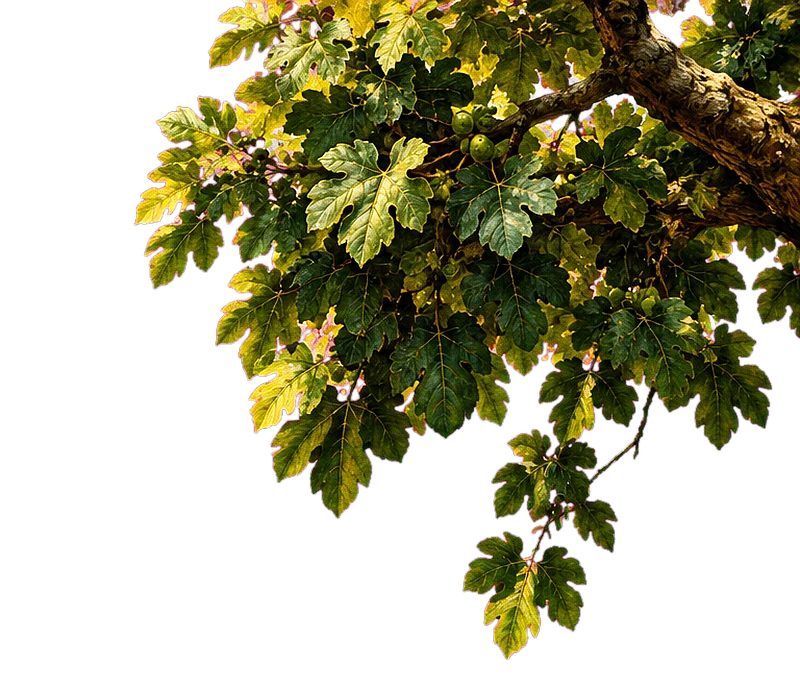
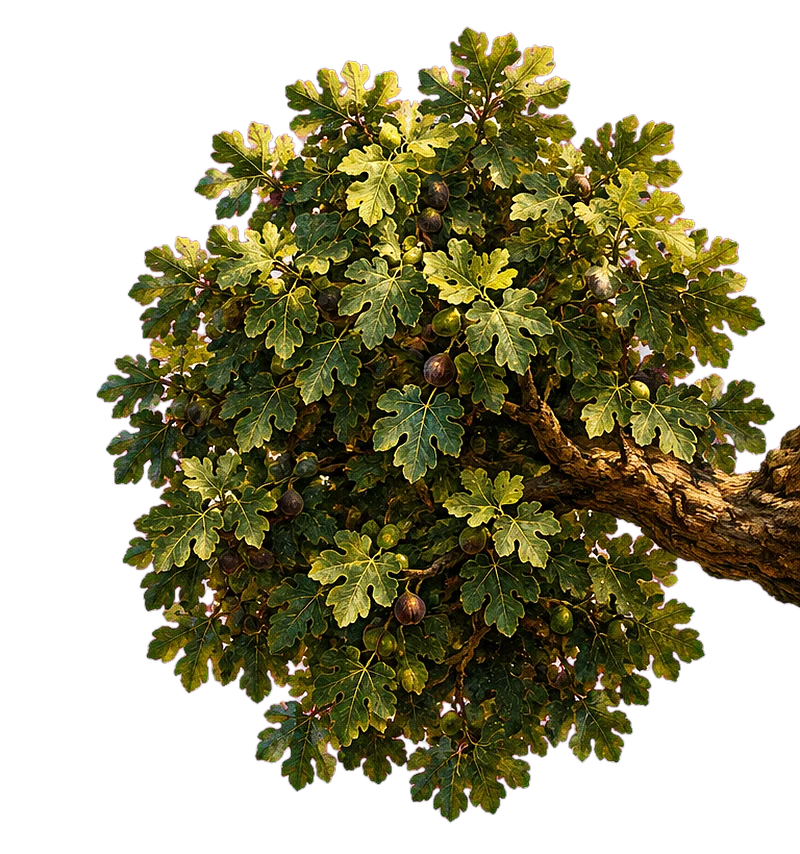
Stories: full uncut tree crowns entering from screen edges
Claude-Session: https://claude.ai/code/session_015Py254KMr5kCvAhqEtRz8k

diff --git a/src/styles/stories-structured.css b/src/styles/stories-structured.css
@@ -142,7 +142,7 @@
 
 /* ══ ٢. رحلة اللوحة ═══════════════════════════════════════════════════ */
 .qz-sx-journey {
-  --tw: 50vw;
+  --tw: 42vw;
   position: relative;
   z-index: 2;
   background: #9fb8b4;
@@ -150,8 +150,8 @@
 .qz-sx-trees {
   position: absolute;
   z-index: 4;
-  inset: calc(-34svh) 0 auto 0;
-  height: calc(var(--tw) * 2);
+  inset: calc(-30svh) 0 auto 0;
+  height: calc(var(--tw) * 2.4);
   overflow: visible;
   overflow-x: clip;
   pointer-events: none;
@@ -165,11 +165,11 @@
 }
 .qz-sx-tree.is-l {
   left: 0;
-  transform-origin: 0% 0%;
+  transform-origin: 0% 40%;
 }
 .qz-sx-tree.is-r {
   right: 0;
-  transform-origin: 100% 0%;
+  transform-origin: 100% 40%;
 }
 .qz-sx-frame {
   position: relative;
@@ -805,7 +805,7 @@
     min-height: 520px;
   }
   .qz-sx-journey {
-    --tw: 60vw;
+    --tw: 56vw;
   }
   .qz-sx-ibis {
     width: 9%;

diff --git a/src/pages/Stories.jsx b/src/pages/Stories.jsx
@@ -117,7 +117,7 @@ function HeroAndJourney() {
   // الشجر طبقة أمامية: طالع من تحت قدّام الكلمة، وبيطلع أسرع من اللوحة ويكبر
   const { scrollYProgress: treeP } = useScroll({ target: journeyRef, offset: ['start end', 'start start'] })
   const treeY = useTransform(treeP, [0, 1], reduce ? ['0vh', '0vh'] : ['0vh', '-105vh'])
-  const treeScale = useTransform(treeP, [0, 1], reduce ? [1, 1] : [1, 1.35])
+  const treeScale = useTransform(treeP, [0, 1], reduce ? [1, 1] : [1, 1.25])
   const treeLX = useTransform(treeP, [0, 1], reduce ? ['0%', '0%'] : ['0%', '0%'])
   const treeRX = useTransform(treeP, [0, 1], reduce ? ['0%', '0%'] : ['0%', '0%'])
 
